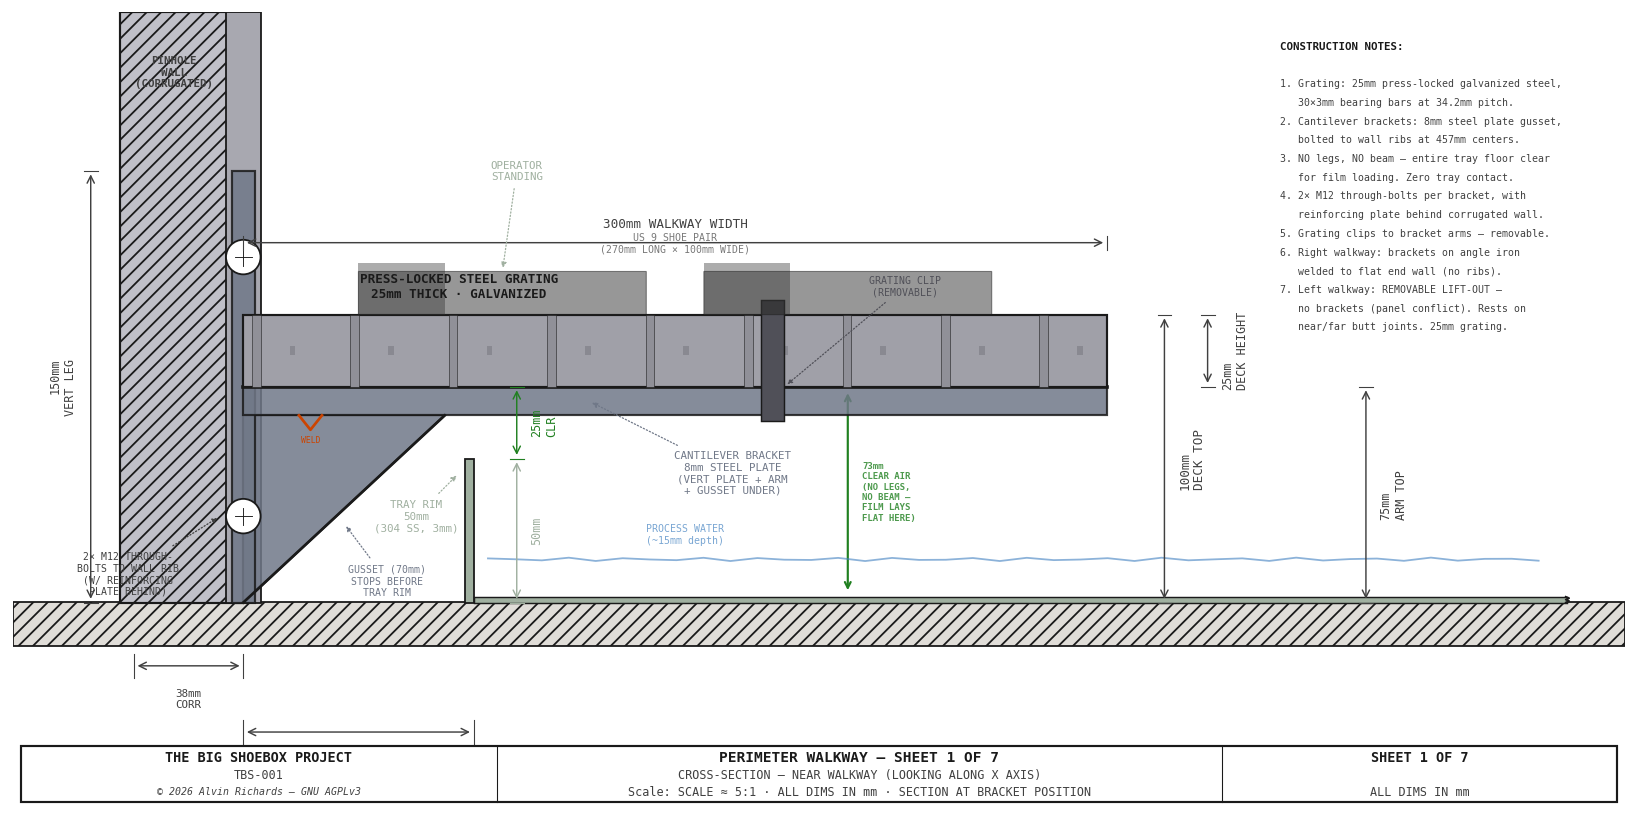
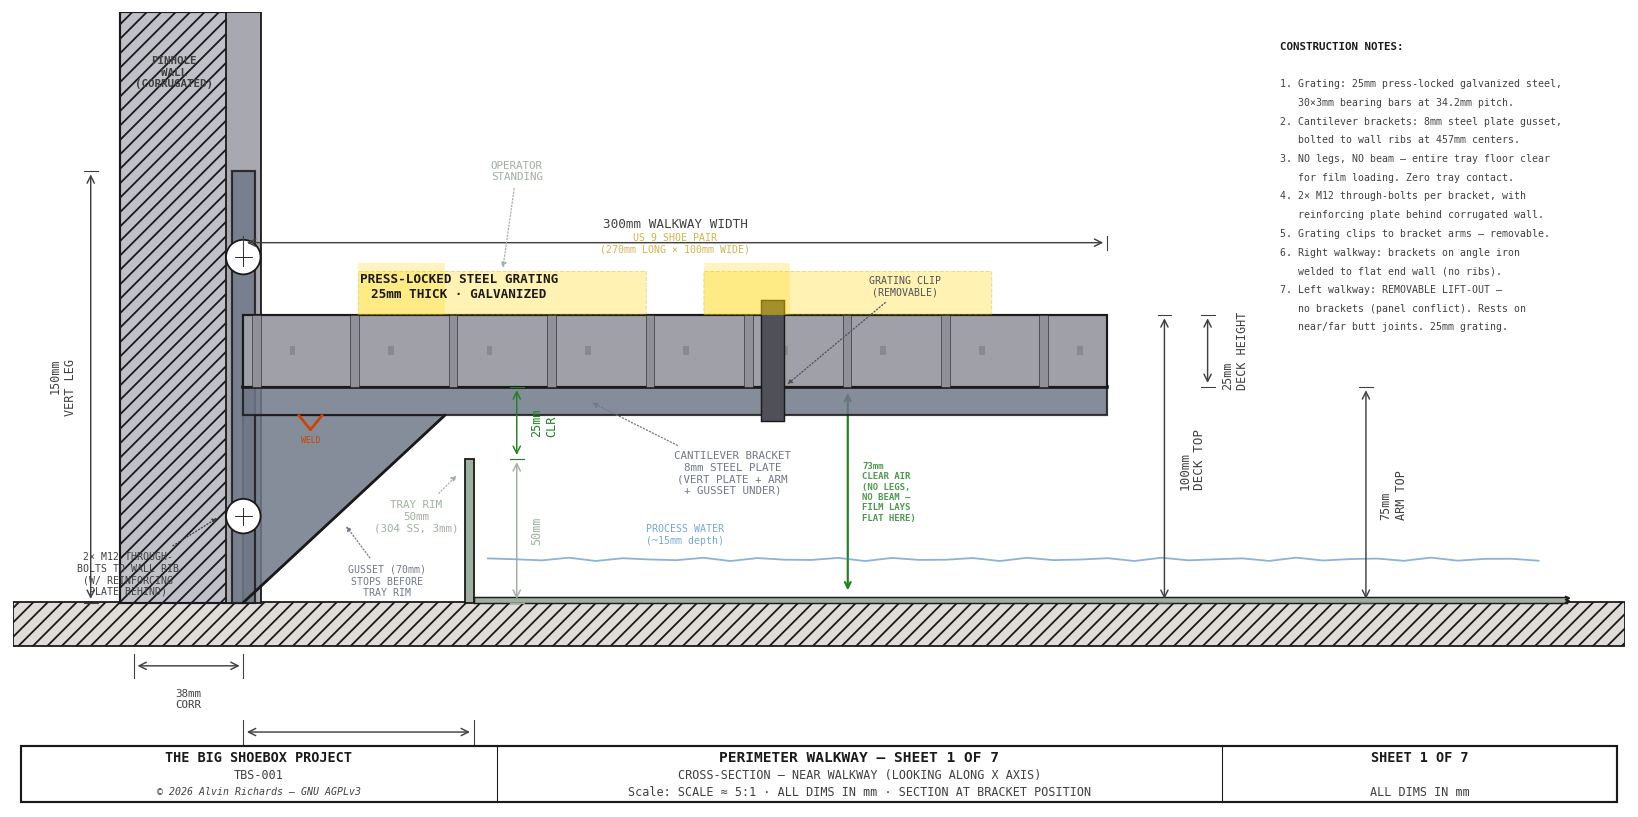
Make operator shoes yellow ghost style on walkway sheet 1

Changed region(s): [[0.2179, 0.2754, 0.6227, 0.3978]]

diff --git a/generate_walkway_diagram.py b/generate_walkway_diagram.py
@@ -368,21 +368,21 @@ def sheet1():
 
     for i in range(2):
         s_yd = shoe_start + i * (SHOE_W + SHOE_GAP)
-        # Sole
+        # Sole (yellow ghost)
         ax.add_patch(FancyBboxPatch(
             (sx(s_yd), sy(shoe_z)), sx(SHOE_W), sy(SHOE_H),
-            boxstyle="round,pad=0", fc="#303030", ec=C_OUT, lw=0.6,
-            zorder=10, alpha=0.5))
+            boxstyle="round,pad=0", fc="#FFD700", ec="#B89600", lw=0.6,
+            zorder=10, alpha=0.3, ls="--"))
         # Heel bump (slightly thicker at back)
         heel_w = SHOE_W * 0.3
         ax.add_patch(Rectangle(
             (sx(s_yd), sy(shoe_z)), sx(heel_w), sy(SHOE_H + 3),
-            fc="#303030", ec="none", zorder=10, alpha=0.4))
+            fc="#FFD700", ec="none", zorder=10, alpha=0.25))
 
     # Shoe length annotation (into-page dimension, since shoes point along X)
     ax.text(sx(WALKWAY_W / 2), sy(shoe_z + SHOE_H + 6),
             "US 9 SHOE PAIR\n(270mm LONG \u00d7 100mm WIDE)",
-            ha="center", va="bottom", fontsize=5.5, color="#404040",
+            ha="center", va="bottom", fontsize=5.5, color="#B89600",
             **FONT, zorder=15, alpha=0.7)
     leader(ax, sx(shoe_start + SHOE_W / 2), sy(shoe_z + SHOE_H),
            sx(95), sy(shoe_z + SHOE_H + 35),
